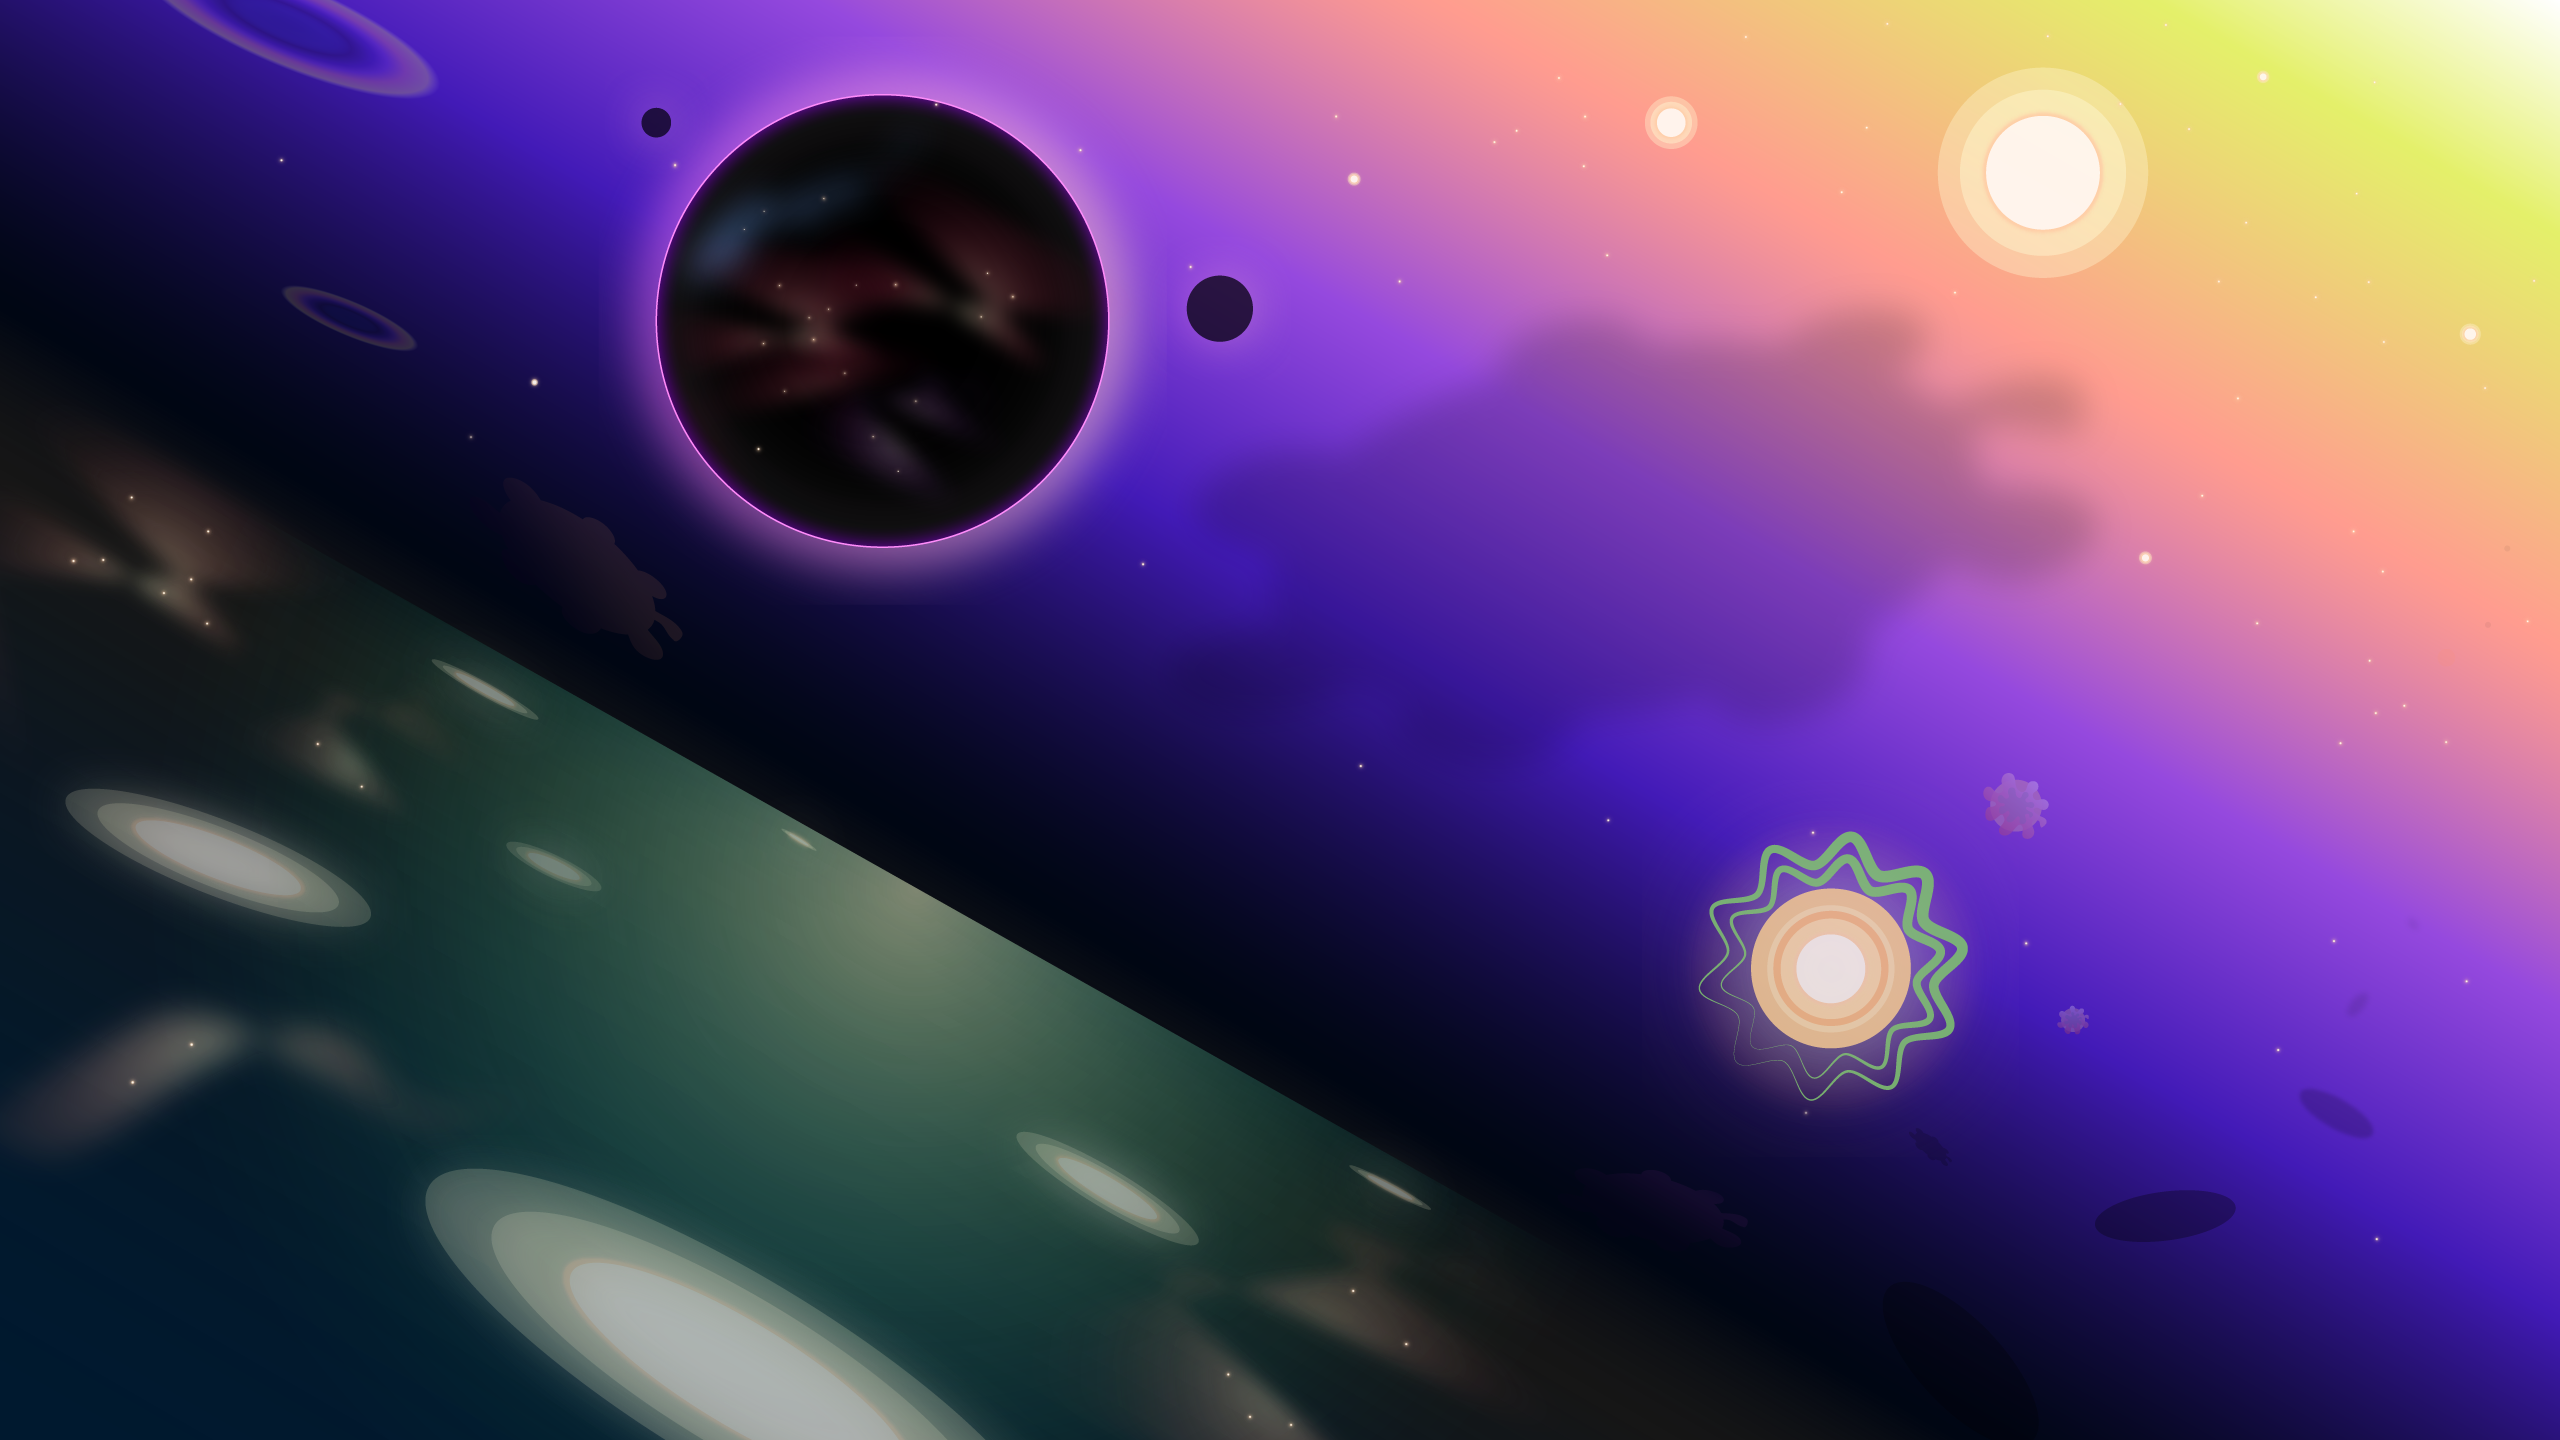
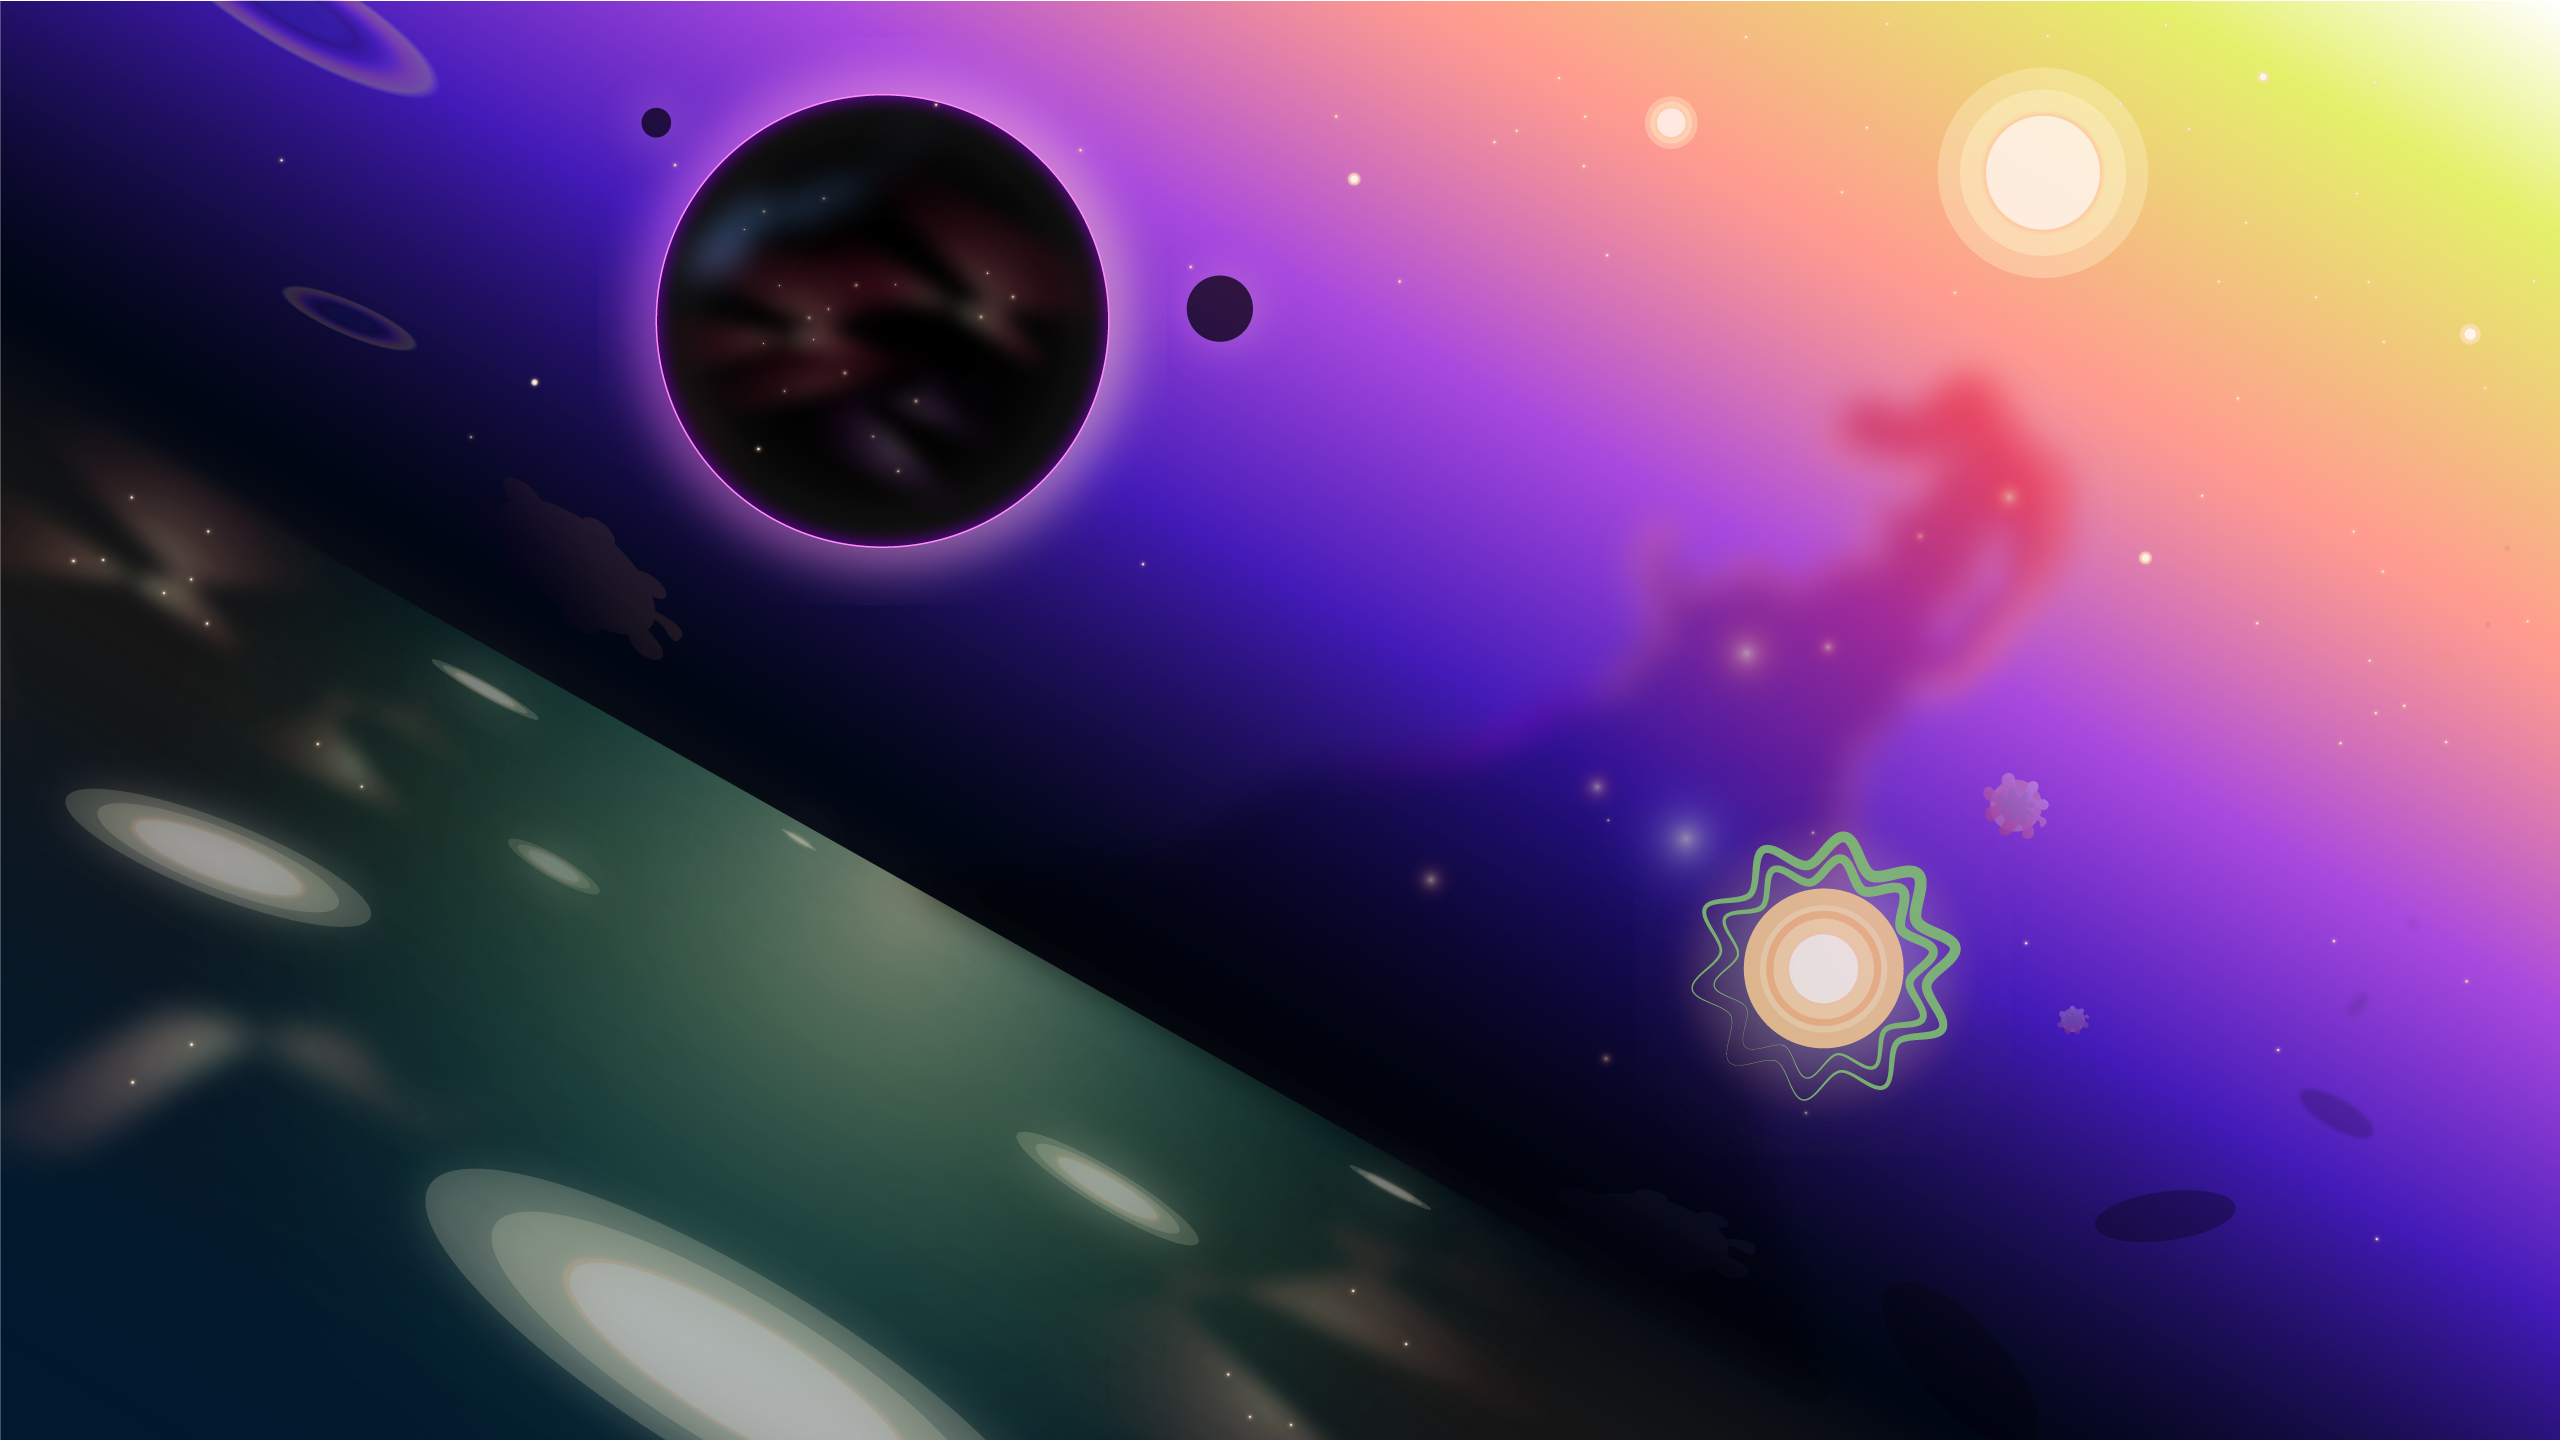
2/13

Changed region(s): [[0.4688, 0.2188, 0.8438, 0.75], [0.0625, 0.0, 0.1562, 0.0625], [0.375, 0.625, 0.4062, 0.6562]]

diff --git a/Assets/Scripts/Event.cs b/Assets/Scripts/Event.cs
@@ -68,6 +68,7 @@ public class Event : MonoBehaviour
 
     public Text UsedHintText;
     public Text UsedTouchText;
+    public Text LogDisplayText;
     [HideInInspector] public int HintUsed = 0;
     [HideInInspector] public int TouchUsed = 0;
     /// For DevTools Elements
@@ -225,7 +226,7 @@ public class Event : MonoBehaviour
                     }
                     else
                     {
-                        ResetPiecePosition(objToFollowMouse, Mathf.Abs(objToFollowMouse.localPosition.x) >= 5.0f && Mathf.Abs(objToFollowMouse.localPosition.x) < 8.5f && objToFollowMouse.localPosition.y >= -0.4f && objToFollowMouse.localPosition.y < 6.8f);
+                        ResetPiecePosition(objToFollowMouse, Mathf.Abs(objToFollowMouse.localPosition.x) >= levelData.piecePlaceXMin && Mathf.Abs(objToFollowMouse.localPosition.x) < levelData.piecePlaceXMax && objToFollowMouse.localPosition.y >= levelData.piecePlaceYMin && objToFollowMouse.localPosition.y < levelData.piecePlaceYMax);
                     }
                     TouchUsed++;
                     objToFollowMouse = null;
@@ -279,9 +280,9 @@ public class Event : MonoBehaviour
 
         //Load map by levelfactor
         if(levelDFactor < -0.55f) //level factor < -0.55인데 여기서는 어쩔수 없이 갯수로
-            backGround.GetComponent<SpriteRenderer>().sprite = Resources.Load<Sprite>("Arts/22");   //22 & 11 잠시 한번 바꿔봄
-        else if(levelDFactor < 0f)
             backGround.GetComponent<SpriteRenderer>().sprite = Resources.Load<Sprite>("Arts/11");
+        else if(levelDFactor < 0f)
+            backGround.GetComponent<SpriteRenderer>().sprite = Resources.Load<Sprite>("Arts/22");
         else if (levelDFactor < 0.6f)
             backGround.GetComponent<SpriteRenderer>().sprite = Resources.Load<Sprite>("Arts/33");
         else
@@ -319,6 +320,12 @@ public class Event : MonoBehaviour
                     Boy.GetComponent<MoveBoi>().distanceBetweenTiles = distanceBetweenTiles;
                     Boy.transform.localScale = new Vector3(emptyTileScale, emptyTileScale, 1);
                 }
+                else
+                {
+                    //Error #1
+                    LogDisplayText.text = "Error #1";
+                    Debug.LogError("Error : Set Boy Position");
+                }
 
                 if (i == levelData.GirlPos && j == levelData.BoardWidth - 1)
                 {
@@ -335,7 +342,7 @@ public class Event : MonoBehaviour
         for (int i = 0; i < levelData.NumberOfPieces; i++)
         {
             prefab = Resources.Load("Prefabs/Piece") as GameObject;
-            obj = Instantiate(prefab, new Vector3(Random.value < 0.5 ? Random.Range(-7.6f, -5.9f) : Random.Range(5.9f, 7.6f), Random.Range(0, 6.8f)), Quaternion.identity);
+            obj = Instantiate(prefab, new Vector3(Random.value < 0.5 ? Random.Range(-(levelData.piecePlaceXMax - 0.9f), -(levelData.piecePlaceXMin + 0.9f)) : Random.Range(levelData.piecePlaceXMin + 0.9f, levelData.piecePlaceXMax - 0.9f), Random.Range(levelData.piecePlaceYMin + 0.4f, levelData.piecePlaceYMax)), Quaternion.identity);
             obj.transform.SetParent(BlockPieces, false);
             obj.GetComponent<VariableProvider>().pieceNum = i;
             obj.GetComponent<VariableProvider>().solutionLoc = levelData.pieceDatas[i].solutionLoc;

diff --git a/Assets/Scripts/LevelDatabase.cs b/Assets/Scripts/LevelDatabase.cs
@@ -16,6 +16,11 @@ public class LevelDatabase
     //public PieceData[] pieceDatas; //Temp -> Migrating from Array to List for dynamic allocation
     public List<PieceData> pieceDatas;
 
+    public float piecePlaceXMax = 8.5f;
+    public float piecePlaceXMin = 5.0f;
+    public float piecePlaceYMax = 6.8f;
+    public float piecePlaceYMin = -0.4f;
+
     [HideInInspector] public bool tutorialCase = false;
     [HideInInspector] public float dfac = 0;
 
@@ -255,13 +260,17 @@ public class LevelDatabase
 
         int maxPieceSize;       //조각의 최대 크기(최대 타일 갯수)
 
-        // Update maxPieceSize, NumberOfPieces, scaleSize by boardSize
+        // Update maxPieceSize, NumberOfPieces, scaleSize, piecePlaceRange by boardSize
         switch (boardSize)
         {
             case 4:
                 maxPieceSize = 2;
                 NumberOfPieces = Random.Range(2, 4);
                 scaleSize = 1;
+                piecePlaceXMax = 8.5f;
+                piecePlaceXMin = 5.0f;
+                piecePlaceYMax = 6.8f;
+                piecePlaceYMin = -0.4f;
                 break;
             case 6:
                 maxPieceSize = 3;
